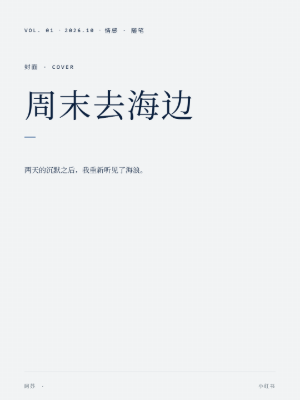
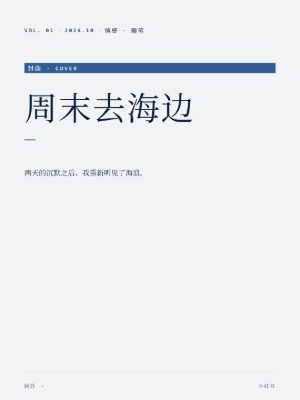
fix(cover): 4 套 Swiss 用强调色块区分 + 断言改为「纸色+强调色」组合唯一
问题：规范里 4 套 Swiss 共用同一纸色 #fafaf8，纯色模式下强调色只出现在
一条 96px 短横线上 → 克莱因蓝/柠檬绿/柠檬黄/安全橙 **看起来完全一样**。
这正是用户最早抱怨的「10 套模板都一样」在新配色下的复现。

修法：规范允许「每张最多一个强调色块（accent card）」，把 kicker
（「封面 · Cover」）做成强调色填充条 —— 瑞士设计常见手法，
4 套一眼可分，且不违反「accent 克制使用」。
柠檬黄/绿自动用 --accent-on:#0a0a0a 深色字，保证对比度。

连带：
- pwa_cover_test 的「10 套底色互不相同」断言在新配色下必然误报
  （4 套 Swiss 纸色相同是规范要求）。改为取「纸色 + 最饱和像素」组合，
  断言组合唯一 —— 既符合规范，又能抓出「看起来一样」的回归。
- 重生成 10 套缩略图 + 归藏 2 张 + 3 张空态示例（设计变了要同步）

验证：门禁 13/13 · cover 24/24

Changed region(s): [[0.06, 0.15, 0.93, 0.33], [0.06, 0.42, 0.48, 0.45], [0.06, 0.33, 0.12, 0.36]]

diff --git a/pwa/src/cover/templates.js b/pwa/src/cover/templates.js
@@ -122,8 +122,24 @@ body:not(.has-img):not(.gz) .chrome-min span {
   color: var(--ink, var(--cover-ink, #111111)) !important;
   text-shadow: none !important;
 }
-/* 强调线保持模板原样（用 --accent），这是纯色模式下唯一露出的强调色，
-   符合规范「accent 克律使用」而不是把整版刷成主色 */
+/* 强调色块（2026-10-25 二次修）：
+   规范里 4 套 Swiss 共用同一个纸色 #fafaf8，只靠强调色区分 ——
+   但纯色模式下强调色原本只出现在一条 96px 短横线上，
+   克莱因蓝/柠檬绿/柠檬黄/安全橙 四套**看起来完全一样**（用户最早抱怨的「都一样」）。
+   规范允许「每张最多一个强调色块（accent card）」，所以把 kicker 标签
+   （「封面 · Cover」）做成强调色填充块 —— 既是瑞士设计的常见手法，
+   又让 4 套一眼可分，且不违反「accent 克制使用」。 */
+body:not(.has-img):not(.gz) .t-cat,
+body:not(.has-img):not(.gz) .kicker {
+  background: var(--accent) !important;
+  color: var(--accent-on, #ffffff) !important;
+  padding: 5px 12px !important;
+  border-radius: 2px !important;
+  display: inline-block !important;
+  text-shadow: none !important;
+}
+
+/* 强调线保持模板原样（用 --accent） */
 body:not(.has-img):not(.gz) .hr-accent {
   background: var(--accent) !important;
   opacity: 1;

diff --git a/scripts/pwa_cover_test.py b/scripts/pwa_cover_test.py
@@ -137,23 +137,35 @@ def main() -> int:
                         "document.querySelectorAll('.cv-card').length === 1", timeout=60000)
                     page.wait_for_function(
                         "document.querySelector('.cv-card img').naturalWidth > 0", timeout=20000)
-                    rgb = page.evaluate("""() => {
+                    # 2026-10-25 改：不再只看底色。规范里 4 套 Swiss 共用同一个
+                    # 纸色 #fafaf8，只靠强调色区分 → 底assert「底色互不相同」会误报。
+                    # 改为取「纸色 + 最饱和像素（强调色）」组合，断言组合唯一。
+                    sig = page.evaluate("""() => {
                         const img = document.querySelector('.cv-card img');
                         const cv = document.createElement('canvas');
-                        cv.width = 8; cv.height = 8;
+                        cv.width = 40; cv.height = 54;
                         const ctx = cv.getContext('2d');
-                        ctx.drawImage(img, 0, 0, 8, 8);
-                        const d = ctx.getImageData(2, 2, 1, 1).data;
-                        return `${d[0]},${d[1]},${d[2]}`;
+                        ctx.drawImage(img, 0, 0, 40, 54);
+                        const d = ctx.getImageData(0, 0, 40, 54).data;
+                        const paper = [d[0], d[1], d[2]].join(',');
+                        let best = 0, acc = paper;
+                        for (let i = 0; i < d.length; i += 4) {
+                            const r = d[i], g = d[i + 1], b = d[i + 2];
+                            const mx = Math.max(r, g, b), mn = Math.min(r, g, b);
+                            // 饱和度 × 亮度：挑最“有颜色”的像素当强调色
+                            const sat = (mx - mn) * (mx / 255);
+                            if (sat > best) { best = sat; acc = [r, g, b].join(','); }
+                        }
+                        return paper + '|' + acc;
                     }""")
-                    bg_of[sid] = rgb
+                    bg_of[sid] = sig
                 except Exception as e:
                     bg_of[sid] = f"ERR:{type(e).__name__}"
             dup = {}
             for sid, rgb in bg_of.items():
                 dup.setdefault(rgb, []).append(sid)
             same = {k: v for k, v in dup.items() if len(v) > 1}
-            check("10 套模板底色互不相同（不再是灰白板）",
+            check("10 套模板（纸色+强调色）组合唯一",
                   not same and len(bg_of) == 10,
                   f"{len(bg_of)} 套 · 重复={same or '无'}")
             page.click('[data-style="editorial"]')

diff --git a/STATE.md b/STATE.md
@@ -6,7 +6,7 @@
 > **本文件是「当前状态」的唯一真源。** 其他文档（README / AGENTS / HANDOFF / CLOSURE …）
 > 只允许**指向**本文件，不允许自己写版本号、构建号、测试计数。
 >
-> 生成时间：2026-10-25 19:58
+> 生成时间：2026-10-25 20:16
 > 生成命令：`python scripts/gen_state.py`
 
 ## 版本与部署
@@ -14,11 +14,11 @@
 | 项 | 值 |
 |---|---|
 | 版本号 | **v1.6.0** |
-| 本地 dist 构建号 | **b226** |
+| 本地 dist 构建号 | **b227** |
 | 线上构建号 | b— 已跳过（--no-online） |
 | 部署状态 | — |
 | 分支 | `main` |
-| HEAD | `b7a114a`（共 226 个提交）|
+| HEAD | `2e72a39`（共 227 个提交）|
 | 工作区 | ⚠ 有未提交改动 |
 
 ## 产品规模
@@ -33,9 +33,9 @@
 
 ## 最近一次门禁
 
-- 时间：2026-10-25 19:19
-- 结果：**12/12**
-- 日志：`output/gate-run/run-20261025-191318.log`
+- 时间：2026-10-25 20:07
+- 结果：**6/7（在 cover 停）**
+- 日志：`output/gate-run/run-20261025-200220.log`
 
 ## 门禁套件（从 `scripts/run_gates.py` 自动读取）
 
@@ -52,6 +52,7 @@
 | `cover` | 封面 18（1 SKIP 网络） |
 | `cover_tpl` | 封面模板单测 35 |
 | `ai_plan` | AI 排版结构单测 20 |
+| `theme_spec` | 模板配色审计（对照归藏规范） |
 | `layout_compat` | 版式兼容矩阵 100 |
 
 **线上层（--online）**

diff --git a/CHANGELOG.md b/CHANGELOG.md
@@ -12,6 +12,7 @@
 - 四步收口 —— 一键发版 / 两个体验修复 / 单一状态源 / pre-push 钩子 (6087dd8)
 
 ### 修复
+- 10 套模板色块与真实配色对齐 + 纯色模式改回纸底墨字 + 缩略图重生成 (2e72a39)
 - 归藏配色按原版规范校正 + AI 排版提示词按论文重写 (dcede5d)
 - 修卡片按钮错位 + 署名在图片里不显示 (63480f4)
 - 按底色亮度自动选字色（WCAG 相对亮度），午夜墨金等中等亮度底色不再白字看不清 (77a6086)
